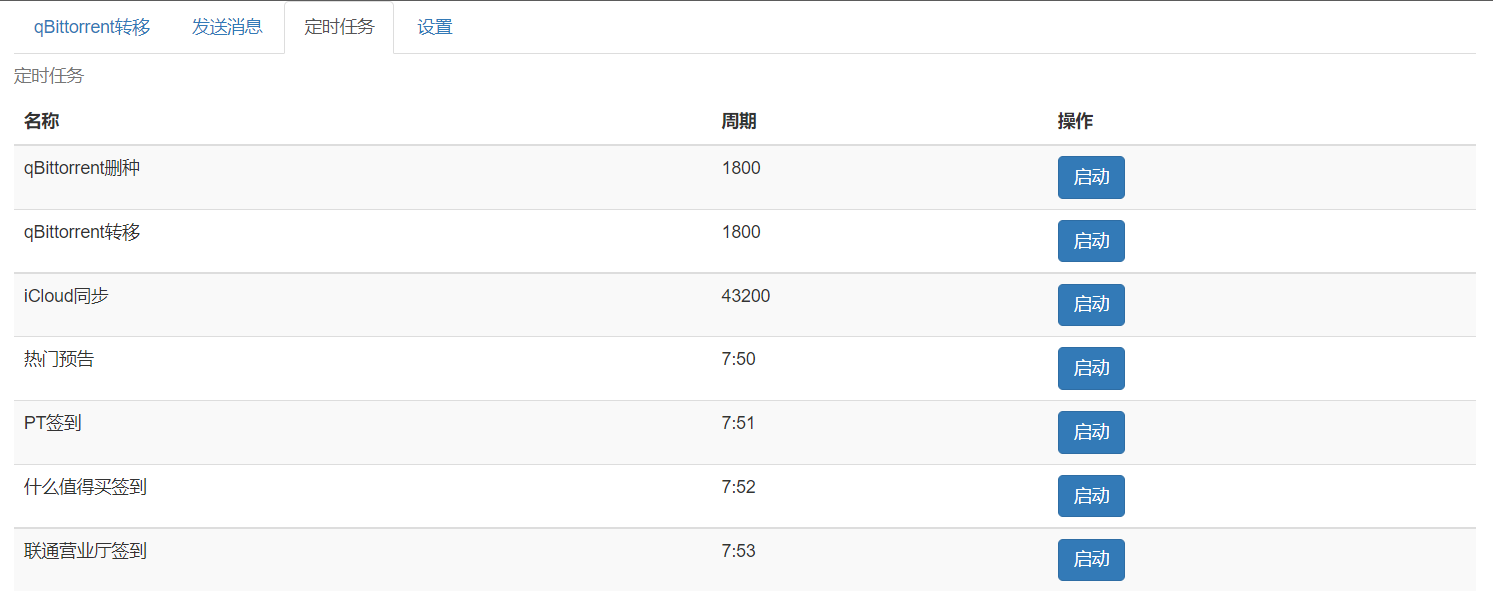
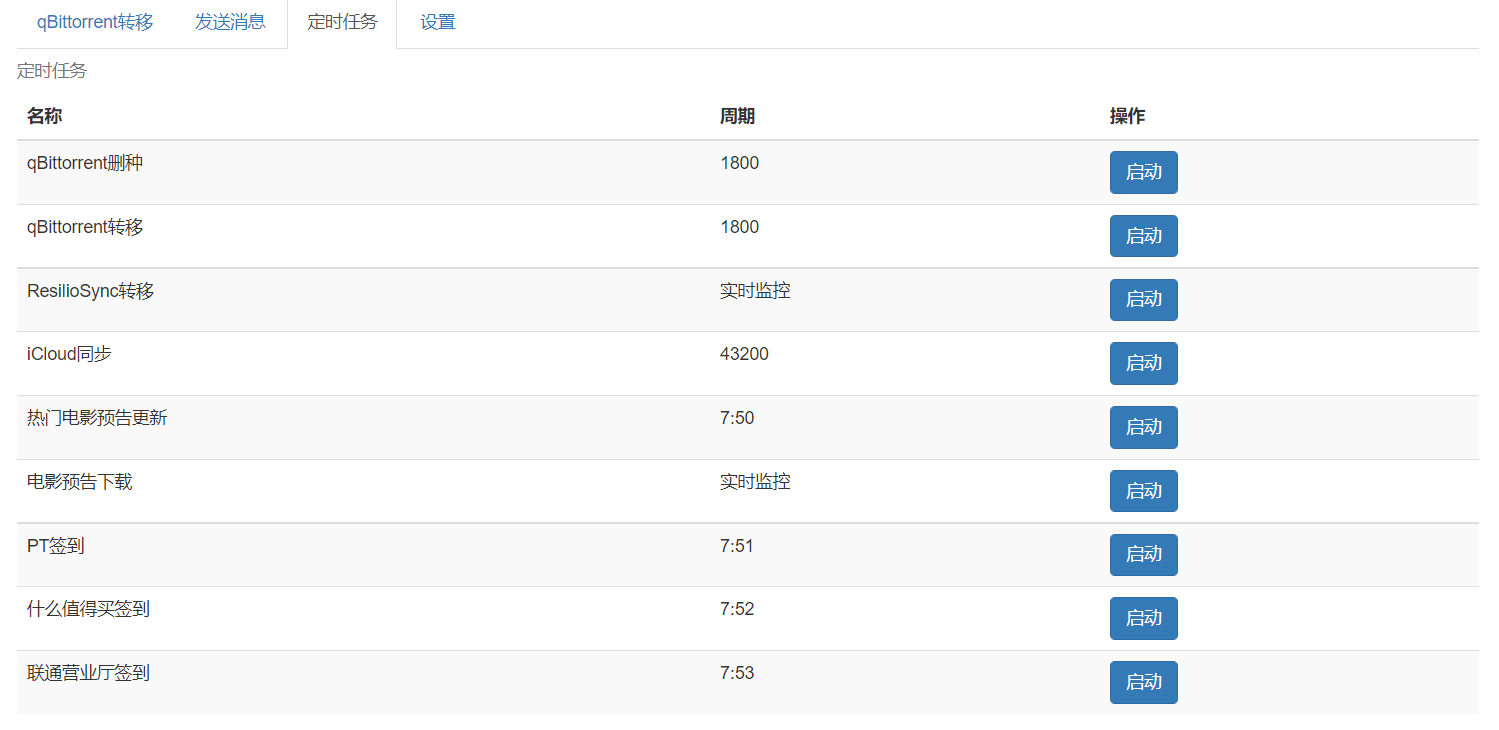
bug fix

diff --git a/web/templates/main.html b/web/templates/main.html
@@ -104,15 +104,25 @@
 								  <td>{{ tim_qbtransfer }}</td>
 								  <td><button id="sch_btn_qbtransfer" type="button" class="sch_action_btn btn btn-primary">启动</button></td>
 								</tr>
+							  	<tr>
+								  <td>ResilioSync转移</td>
+								  <td>实时监控</td>
+								  <td><button id="sch_btn_resiliosync" type="button" class="sch_action_btn btn btn-primary">启动</button></td>
+								</tr>
 								<tr>
 								  <td>iCloud同步</td>
 								  <td>{{ tim_icloudpd }}</td>
 								  <td><button id="sch_btn_icloudpd" type="button" class="sch_action_btn btn btn-primary">启动</button></td>
 								</tr>
 							  	<tr>
-								  <td>热门预告</td>
+								  <td>热门电影预告更新</td>
 								  <td>{{ tim_hottrailers }}</td>
 								  <td><button id="sch_btn_hottrailers" type="button" class="sch_action_btn btn btn-primary">启动</button></td>
+								</tr>
+								<tr>
+								  <td>电影预告下载</td>
+								  <td>实时监控</td>
+								  <td><button id="sch_btn_movietrailer" type="button" class="sch_action_btn btn btn-primary">启动</button></td>
 								</tr>
 							  	<tr>
 								  <td>PT签到</td>

diff --git a/web/main.py b/web/main.py
@@ -4,6 +4,8 @@ from flask import Flask, request, json, render_template
 
 import settings
 from functions import system_exec_command
+from monitor.movie_trailer import movie_trailer_all
+from monitor.resiliosync import resiliosync_all
 from rmt.qbittorrent import login_qbittorrent
 from scheduler.autoremove_torrents import run_autoremovetorrents
 from scheduler.hot_trailer import run_hottrailers
@@ -155,6 +157,10 @@ def create_app():
                     run_smzdmsignin()
                 if sch_item == "sch_btn_unicomsignin":
                     run_unicomsignin()
+                if sch_item == "sch_btn_movietrailer":
+                    movie_trailer_all()
+                if sch_item == "sch_btn_resiliosync":
+                    resiliosync_all()
                 return {"retmsg": "执行完成！", "item": sch_item}
 
     return app

diff --git a/monitor/resiliosync.py b/monitor/resiliosync.py
@@ -74,8 +74,8 @@ def run_resilosync():
         logger.error(monpath + "目录不存在！")
 
 
-if __name__ == "__main__":
-    # 全量转移
+# 全量转移
+def resiliosync_all():
     logger.info("开始全量转移...")
     for dir in os.listdir(monpath):
         file_path = os.path.join(monpath, dir)
@@ -88,3 +88,7 @@ if __name__ == "__main__":
                     transfer_directory(file_name, file_path, "", "", False, "ResilioSync", False)
             except Exception as err:
                 logger.error("发生错误：" + str(err))
+
+
+if __name__ == "__main__":
+    resiliosync_all()

diff --git a/monitor/movie_trailer.py b/monitor/movie_trailer.py
@@ -145,8 +145,8 @@ def run_movie_trailer():
         logger.error(monpath + "目录不存在！")
 
 
-if __name__ == "__main__":
-    # 下载电影预告片
+# 下载电影预告片
+def movie_trailer_all():
     logger.info("开始检索和下载电影预告片！")
     movie_dir_list = os.listdir(monpath)
     for movie_dir in movie_dir_list:
@@ -154,3 +154,7 @@ if __name__ == "__main__":
         if os.path.isdir(movie_dir):
             download_movie_trailer(movie_dir)
     logger.info("电影预告片下载任务完成！")
+
+
+if __name__ == "__main__":
+    movie_trailer_all()
